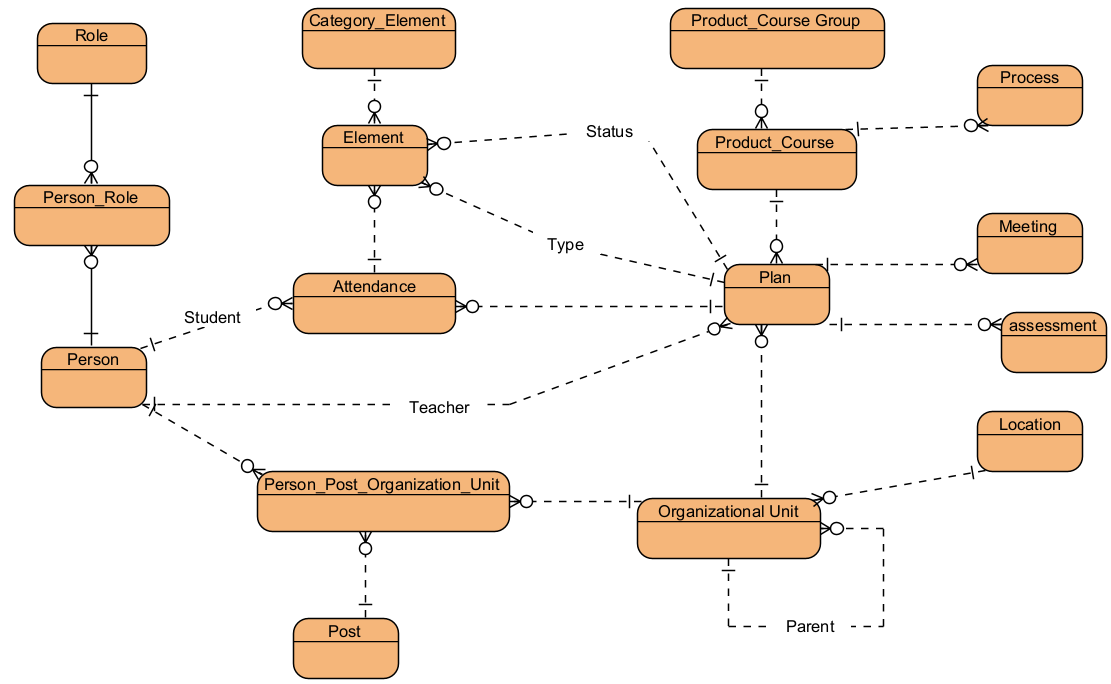
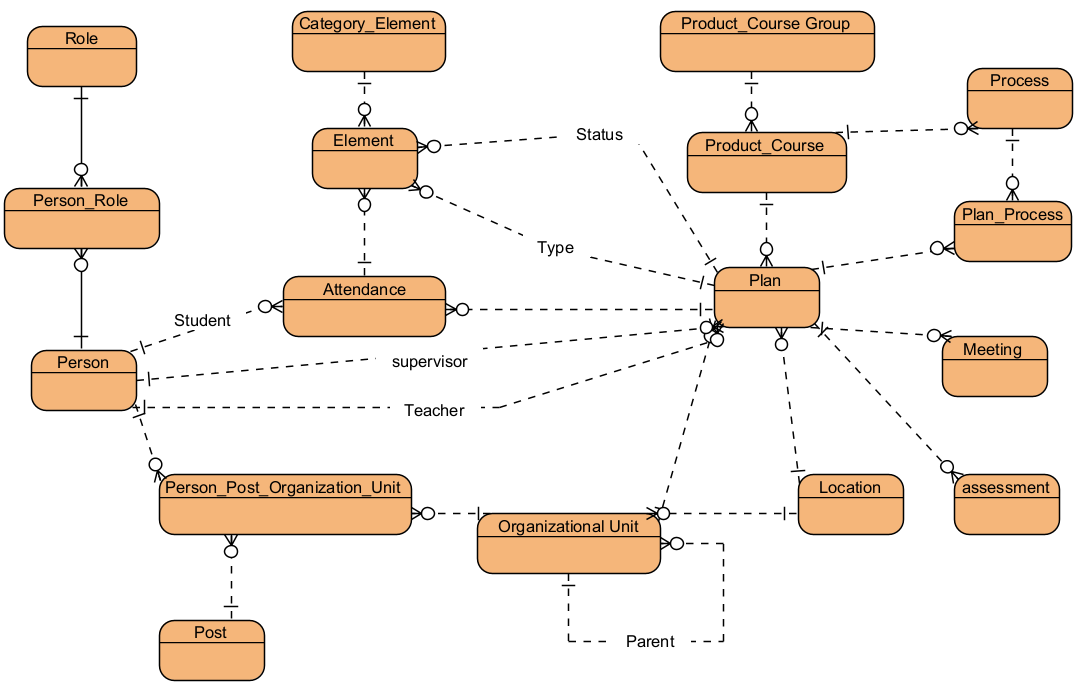
New Components for Plan

diff --git a/src/main/java/edu/educate/model/PlansEntity.java b/src/main/java/edu/educate/model/PlansEntity.java
@@ -2,7 +2,6 @@ package edu.educate.model;
 
 import edu.educate.helper.MessageUtil;
 import edu.educate.model.baseModel.BaseEntity;
-import edu.educate.model.baseModel.TitleEntity;
 import jakarta.persistence.*;
 import jakarta.validation.constraints.AssertTrue;
 import jakarta.validation.constraints.NotNull;
@@ -41,13 +40,28 @@ import java.util.List;
 public class PlansEntity extends BaseEntity {
 
     @Size(min = 2, message = "{titleEntity.title.min}")
-    @Column(name = "title", unique=true)
+    @Column(name = "title")
     private String title;
+
+    @Column(name = "method")
+    private String method;
+
+    @ManyToMany
+    @JoinTable(
+            name = "plan_process",
+            joinColumns = @JoinColumn(name = "plan_id"),
+            inverseJoinColumns = @JoinColumn(name = "process_id"))
+    private List<ProcessEntity> planProcess;
 
     @ManyToOne
     @NotNull
     @JoinColumn(name = "org_unit_id")
     private OrgUnitEntity orgUnit;
+
+    @ManyToOne
+    @NotNull
+    @JoinColumn(name = "location_id")
+    private LocationEntity location;
 
     @ManyToOne
     @NotNull
@@ -58,6 +72,11 @@ public class PlansEntity extends BaseEntity {
     @NotNull
     @JoinColumn(name = "person_id")
     private PersonEntity person;
+
+    @ManyToOne
+    @NotNull
+    @JoinColumn(name = "person_id_supervisor")
+    private PersonEntity personSupervisor;
 
     @ManyToOne
     @NotNull
@@ -83,6 +102,11 @@ public class PlansEntity extends BaseEntity {
     @NotNull
     @JoinColumn(name = "element_id_holding")
     private ElementEntity elementHolding;
+
+    @ManyToOne
+    @NotNull
+    @JoinColumn(name = "element_id_phase")
+    private ElementEntity elementPhase;
 
     @OneToMany(mappedBy = "plan")
     private List<AttendanceEntity> attendances;
@@ -113,52 +137,74 @@ public class PlansEntity extends BaseEntity {
     @Column(name = "plan_link")
     private String planLink;
 
+    @Column(name = "descr")
+    private String descr;
+
     @Override
     public List<String> getHeaderNames() {
         List<String> headers = new ArrayList<>();
-        headers.add(MessageUtil.getMessage("main.field.title"));
+        headers.add(MessageUtil.getMessage("plan.field.project") + "_"+MessageUtil.getMessage("main.field.prTitle"));
+        headers.add(MessageUtil.getMessage("plan.field.holding") + "_"+MessageUtil.getMessage("main.field.prTitle"));
         headers.add(MessageUtil.getMessage("orgUnit.field.title"));
+        headers.add(MessageUtil.getMessage("location.page.title"));
         headers.add(MessageUtil.getMessage("course.grp.page.title") + "_"+MessageUtil.getMessage("main.field.ltTitle"));
         headers.add(MessageUtil.getMessage("course.grp.page.title") + "_"+MessageUtil.getMessage("main.field.prTitle"));
         headers.add(MessageUtil.getMessage("course.page.title") + "_"+MessageUtil.getMessage("main.field.ltTitle"));
         headers.add(MessageUtil.getMessage("course.page.title") + "_"+MessageUtil.getMessage("main.field.prTitle"));
-        headers.add(MessageUtil.getMessage("plan.field.type") + "_"+MessageUtil.getMessage("main.field.prTitle"));
         headers.add(MessageUtil.getMessage("plan.field.status") + "_"+MessageUtil.getMessage("main.field.prTitle"));
-        headers.add(MessageUtil.getMessage("plan.field.edu") + "_"+MessageUtil.getMessage("main.field.prTitle"));
-        headers.add(MessageUtil.getMessage("plan.field.project") + "_"+MessageUtil.getMessage("main.field.prTitle"));
-        headers.add(MessageUtil.getMessage("plan.field.holding") + "_"+MessageUtil.getMessage("main.field.prTitle"));
-        headers.add(MessageUtil.getMessage("person.field.master.fname"));
-        headers.add(MessageUtil.getMessage("person.field.master.lname"));
         headers.add(MessageUtil.getMessage("plan.field.from.date"));
         headers.add(MessageUtil.getMessage("plan.field.to.date"));
+        headers.add(MessageUtil.getMessage("plan.field.edu") + "_"+MessageUtil.getMessage("main.field.prTitle"));
+        headers.add(MessageUtil.getMessage("plan.field.type") + "_"+MessageUtil.getMessage("main.field.prTitle"));
+        headers.add(MessageUtil.getMessage("plan.field.method"));
+        headers.add(MessageUtil.getMessage("plan.field.phase") + "_"+MessageUtil.getMessage("main.field.prTitle"));
+        headers.add(MessageUtil.getMessage("main.field.title"));
+        headers.add(MessageUtil.getMessage("plan.field.teacher") + "_"+MessageUtil.getMessage("person.field.master.fname"));
+        headers.add(MessageUtil.getMessage("plan.field.teacher") + "_"+MessageUtil.getMessage("person.field.master.lname"));
+        headers.add(MessageUtil.getMessage("plan.field.supervisor") + "_"+MessageUtil.getMessage("person.field.master.fname"));
+        headers.add(MessageUtil.getMessage("plan.field.supervisor") + "_"+MessageUtil.getMessage("person.field.master.lname"));
         headers.add(MessageUtil.getMessage("plan.field.link"));
+        headers.add(MessageUtil.getMessage("main.field.descr"));
         return headers;
     }
 
     @Override
     public List<Object> getCellValues() {
         List<Object> objects = new ArrayList<>();
-        objects.add(getTitle() != null ? getTitle() : null);
+        objects.add(elementProject != null ? elementProject.getPrTitle() : null);
+        objects.add(elementHolding != null ? elementHolding.getPrTitle() : null);
         objects.add(orgUnit != null ? orgUnit.getTitle() : null);
+        objects.add(location != null ? location.getTitle() : null);
         objects.add(prCourse != null ? prCourse.getPrCourseGrp().getLtTitle() : null);
         objects.add(prCourse != null ? prCourse.getPrCourseGrp().getPrTitle() : null);
         objects.add(prCourse != null ? prCourse.getLtTitle() : null);
         objects.add(prCourse != null ? prCourse.getPrTitle() : null);
-        objects.add(elementType != null ? elementType.getPrTitle() : null);
         objects.add(elementStatus != null ? elementStatus.getPrTitle() : null);
-        objects.add(elementEdu != null ? elementEdu.getPrTitle() : null);
-        objects.add(elementProject != null ? elementProject.getPrTitle() : null);
-        objects.add(elementHolding != null ? elementHolding.getPrTitle() : null);
-        objects.add(person != null ? person.getFname() : null);
-        objects.add(person != null ? person.getLname() : null);
         objects.add(prFromDate != null ? prFromDate : null);
         objects.add(prToDate != null ? prToDate : null);
+        objects.add(elementEdu != null ? elementEdu.getPrTitle() : null);
+        objects.add(elementType != null ? elementType.getPrTitle() : null);
+        objects.add(method != null ? method : null);
+        objects.add(elementPhase != null ? elementPhase.getPrTitle() : null);
+        objects.add(getTitle() != null ? getTitle() : null);
+        objects.add(person != null ? person.getFname() : null);
+        objects.add(person != null ? person.getLname() : null);
+        objects.add(personSupervisor != null ? personSupervisor.getFname() : null);
+        objects.add(personSupervisor != null ? personSupervisor.getLname() : null);
         objects.add(planLink != null ? planLink : null);
+        objects.add(descr != null ? descr : null);
         return objects;
+    }
+
+    public List<ProcessEntity> getPersonRoles() {
+        return ifEntityListHasDeletedElement(planProcess);
     }
 
     public OrgUnitEntity getOrgUnit() {
         return (OrgUnitEntity)ifEntityIsDeleted(orgUnit);
+    }
+    public LocationEntity getLocation() {
+        return (LocationEntity)ifEntityIsDeleted(location);
     }
 
     public PrCourseEntity getPrCourse() {
@@ -167,6 +213,10 @@ public class PlansEntity extends BaseEntity {
 
     public PersonEntity getPerson() {
         return (PersonEntity)ifEntityIsDeleted(person);
+    }
+
+    public PersonEntity getPersonSupervisor() {
+        return (PersonEntity)ifEntityIsDeleted(personSupervisor);
     }
 
     public ElementEntity getElementType() {
@@ -187,6 +237,10 @@ public class PlansEntity extends BaseEntity {
 
     public ElementEntity getElementHolding() {
         return (ElementEntity)ifEntityIsDeleted(elementHolding);
+    }
+
+    public ElementEntity getElementPhase() {
+        return (ElementEntity)ifEntityIsDeleted(elementPhase);
     }
 
     public List<AttendanceEntity> getAttendances() {

diff --git a/src/main/java/edu/educate/model/PlanProcessEntity.java b/src/main/java/edu/educate/model/PlanProcessEntity.java
@@ -1,0 +1,65 @@
+package edu.educate.model;
+
+import edu.educate.helper.MessageUtil;
+import edu.educate.model.baseModel.BaseEntity;
+import jakarta.persistence.*;
+import jakarta.validation.constraints.NotNull;
+import lombok.Getter;
+import lombok.NoArgsConstructor;
+import lombok.Setter;
+
+import java.util.ArrayList;
+import java.util.List;
+
+@NoArgsConstructor
+@Getter
+@Setter
+//@ToString
+@Entity
+@Table(
+        name = "plan_process",
+        schema = "dbo",
+        catalog = "educate",
+        uniqueConstraints = {
+                @UniqueConstraint(columnNames = {"plan_id", "process_id"})
+        }
+)
+public class PlanProcessEntity extends BaseEntity {
+
+    @NotNull
+    @ManyToOne
+    @JoinColumn(name = "plan_id")
+    private PlansEntity plan;
+
+    @NotNull
+    @ManyToOne
+    @JoinColumn(name = "process_id")
+    private ProcessEntity process;
+
+    @Override
+    public List<String> getHeaderNames() {
+        List<String> headers = new ArrayList<>();
+        headers.add(MessageUtil.getMessage("plan.page.title"));
+        headers.add(MessageUtil.getMessage("main.field.ltTitle"));
+        headers.add(MessageUtil.getMessage("main.field.prTitle"));
+        return headers;
+    }
+
+    @Override
+    public List<Object> getCellValues() {
+        List<Object> objects = new ArrayList<>();
+        objects.add(plan != null ? plan.getTitle() : null);
+        objects.add(process != null ? process.getLtTitle() : null);
+        objects.add(process != null ? process.getPrTitle() : null);
+        return objects;
+    }
+
+    public PlansEntity getPerson() {
+        return (PlansEntity)ifEntityIsDeleted(plan);
+    }
+
+    public ProcessEntity getRole() {
+        return (ProcessEntity)ifEntityIsDeleted(process);
+    }
+
+}

diff --git a/src/main/java/edu/educate/service/PlansServiceImp.java b/src/main/java/edu/educate/service/PlansServiceImp.java
@@ -64,9 +64,8 @@ public class PlansServiceImp extends GenericServiceImpl<PlansEntity, PlansDto> i
     }
 
     private String titleSetting(PlansEntity plansEntity){
-        return plansEntity.getElementEdu().getPrTitle() + " _ "+
-                plansEntity.getElementType().getPrTitle() + " _ "+
-                plansEntity.getOrgUnit().getTitle() + " _ "+
+        return plansEntity.getOrgUnit().getTitle() + " _ "+
+                plansEntity.getPrCourse().getPrTitle() + " _ "+
                 plansEntity.getPrFromDate().substring(0, Math.min(10, plansEntity.getPrFromDate().length()));
     }
 

diff --git a/src/main/java/edu/educate/model/ProcessEntity.java b/src/main/java/edu/educate/model/ProcessEntity.java
@@ -23,6 +23,9 @@ import java.util.List;
 )
 public class ProcessEntity extends TitleLPEntity {
 
+    @ManyToMany(mappedBy = "planProcess")
+    private List<PlansEntity> planProcess;
+
     @ManyToOne
     @NotNull
     @JoinColumn(name = "pr_course_id", nullable = false)
@@ -55,6 +58,9 @@ public class ProcessEntity extends TitleLPEntity {
 
     public PrCourseEntity getPrCourse() {
         return (PrCourseEntity)ifEntityIsDeleted(prCourse);
+    }
+    public List<PlansEntity> getPersonRoles() {
+        return ifEntityListHasDeletedElement(planProcess);
     }
 
 }

diff --git a/src/main/java/edu/educate/model/ElementEntity.java b/src/main/java/edu/educate/model/ElementEntity.java
@@ -49,6 +49,9 @@ public class ElementEntity  extends TitleLPEntity {
     @OneToMany(mappedBy = "elementHolding")
     private List<PlansEntity> planHoldings;
 
+    @OneToMany(mappedBy = "elementPhase")
+    private List<PlansEntity> planPhases;
+
     @Override
     public List<String> getHeaderNames() {
         List<String> headers = new ArrayList<>();

diff --git a/src/main/java/edu/educate/model/PersonEntity.java b/src/main/java/edu/educate/model/PersonEntity.java
@@ -27,6 +27,9 @@ public class PersonEntity extends BaseEntity {
     @OneToMany(mappedBy = "person")
     private List<PlansEntity> plans;
 
+    @OneToMany(mappedBy = "personSupervisor")
+    private List<PlansEntity> planSupervisors;
+
     @OneToMany(mappedBy = "person")
     private List<OrgUnitPostPersonEntity> orgUnitPostPersons;
 

diff --git a/src/main/java/edu/educate/model/LocationEntity.java b/src/main/java/edu/educate/model/LocationEntity.java
@@ -23,6 +23,9 @@ public class LocationEntity extends TitleEntity {
     @OneToMany(mappedBy = "location")
     private List<OrgUnitEntity> orgUnits;
 
+    @OneToMany(mappedBy = "location")
+    private List<PlansEntity> plans;
+
     @Column(name = "code", length = 50)
     private String code;
 
